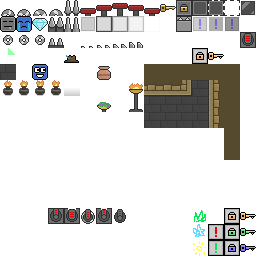
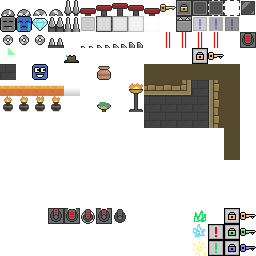
work in progress

Changed region(s): [[0.0, 0.3125, 0.25, 0.4375], [0.625, 0.125, 0.875, 0.1875]]

diff --git a/src/rt_lights/compute_shader.rs b/src/rt_lights/compute_shader.rs
@@ -3,14 +3,21 @@ use bevy::{prelude::*, render::{render_resource::Buffer, Extract}};
 use bevy_app_compute::prelude::*;
 use bytemuck::{Pod, Zeroable};
 
-use crate::rt_lights::{components::{StaticLightOccluder, LightOccluder, PointLight}, occluders::OccluderMap};
+use crate::rt_lights::{components::{AreaLight, LightOccluder, PointLight, StaticLightOccluder}, occluders::OccluderMap};
 
 const MAX_LIGHTS: u32 = 30;
 const MAX_OCCLUDERS: u32 = 100*100;
 const OCCLUDER_FRAME_BUDGET: u32 = 4;
 const RESOLUTION: u32 = 1600;   // mostly unused at the moment
 
+#[derive(TypePath)]
+struct RTLAreaRaytraceShader;
 
+impl ComputeShader for RTLAreaRaytraceShader {
+    fn shader() -> ShaderRef {
+        "shaders/rtl/rtl_area_raytrace.wgsl".into()
+    }
+}
 
 #[derive(TypePath)]
 struct RTLRaytraceShader;
@@ -92,6 +99,32 @@ impl RTPointLight {
 
 #[repr(C)]
 #[derive(Default, Clone, Copy, ShaderType, Pod, Zeroable)]
+pub(crate) struct RTAreaLight {
+    pub pos: Vec2,
+    pub packed_rgb: u32,
+    pub intensity: f32,
+    pub rect: Vec4
+}
+
+impl RTAreaLight {
+    pub fn new(pos: Vec2, colour: Color, intensity: f32, rect: Rect) -> Self {
+        let [r, g, b] = colour.to_linear().to_u8_array_no_alpha();
+        let mut packed_rgb: u32 = 0;
+        packed_rgb |= (r as u32) << 24;
+        packed_rgb |= (g as u32) << 16;
+        packed_rgb |= (b as u32) << 8;
+        
+        return Self {
+            packed_rgb,
+            pos,
+            intensity,
+            rect: Vec4::new(rect.min.x, rect.min.y, rect.max.x, rect.max.y)
+        };
+    }
+}
+
+#[repr(C)]
+#[derive(Default, Clone, Copy, ShaderType, Pod, Zeroable)]
 pub(crate) struct Occluder {
     pub pos: Vec2,
     pub shape_id: u32,
@@ -130,7 +163,7 @@ impl ComputeWorker for RTLComputeWorker {
 
         //let occluder_map = world.get_resource::<OccluderMap>().expect("could not find occluder map res when building RTLComputeWorker");
 
-        let rays_per_light = 320;
+        let rays_per_light = 64;
         let ray_workgroup_size = 64;
         let ray_workgroup_count = (rays_per_light + ray_workgroup_size - 1) / ray_workgroup_size;
         
@@ -155,6 +188,8 @@ impl ComputeWorker for RTLComputeWorker {
             .add_storage("green_lightmap", &[0u32; 1600*1600])
             .add_storage("blue_lightmap", &[0u32; 1600*1600])
 
+            .add_storage("area_lights", &[RTAreaLight::default(); MAX_LIGHTS as usize])
+            .add_uniform("area_light_count", &0)
 
             .add_pass::<RTLResetShader>([100, 100, 1], &["red_lightmap"])
             .add_pass::<RTLResetShader>([100, 100, 1], &["green_lightmap"])
@@ -162,6 +197,9 @@ impl ComputeWorker for RTLComputeWorker {
             .add_pass::<RTLOccluderResetShader>([100, 100 / OCCLUDER_FRAME_BUDGET, 1], &["occluder_mask", "current_occluder_frame", "total_occluder_frames", "buffer_size", "is_static_occluder_reset"])
             .add_pass::<RTLOccludeFillShader>([100, 100 / OCCLUDER_FRAME_BUDGET, 1], &["occluder_count", "occluders", "occluder_mask", "current_occluder_frame", "total_occluder_frames"])
             .add_pass::<RTLRaytraceShader>([ray_workgroup_count, MAX_LIGHTS, 1], &["light_count", "lights", "occluder_mask", "red_lightmap", "green_lightmap", "blue_lightmap"])
+
+            //.add_pass::<RTLAreaRaytraceShader>([100, 1, 1], &["area_light_count", "area_lights", "occluder_mask", "red_lightmap", "green_lightmap", "blue_lightmap"])
+
             .add_pass::<RTLLightPacker>([100, 100, 1], &["lighting_output", "red_lightmap", "green_lightmap", "blue_lightmap"])
             .add_pass::<RTLBlurShader>([100, 100, 1], &["lighting_output", "intermediate_blur", "buffer_size", "noy"])
             .add_pass::<RTLBlurShader>([100, 100, 1], &["intermediate_blur", "lighting_output", "buffer_size", "y"])
@@ -274,6 +312,26 @@ pub(crate) fn update_rt_lights(
 
     worker.write_slice("lights", &lights);
     worker.write("light_count", &current_count);
+}
+
+
+pub(crate) fn update_rt_area_lights(
+    query: Query<(&Transform, &AreaLight)>,
+    mut worker: ResMut<AppComputeWorker<RTLComputeWorker>>,
+) {
+    let mut current_count = 0u32;
+    let mut area_lights: Vec<RTAreaLight> = vec![];
+
+    for (transform, light) in query {
+        area_lights.push(RTAreaLight::new(transform.translation.truncate(), light.colour, light.intensity, light.rect));
+        current_count += 1;
+        if current_count >= MAX_LIGHTS {
+            break;
+        }
+    }
+
+    worker.write_slice("area_lights", &area_lights);
+    worker.write("area_light_count", &current_count);
 }
 
 

diff --git a/src/stage/stage_objects/laser.rs b/src/stage/stage_objects/laser.rs
@@ -3,7 +3,7 @@ use std::f32;
 use bevy::{math::VectorSpace, prelude::*};
 use avian2d::prelude::*;
 
-use crate::{common::{animated_sprite::SpriteAnimator, physics::layers::GamePhysicsLayer, rails::RailRider}, ground::Ground, obstacles::InstantKiller, rt_lights::components::LightOccluder, stage::{stage_builder::{stage_asset, stage_creator::{get_object_tilemap_rect_from_index, ObjectAtlasIndices, StageCreator, TILE_SIZE, TILE_SIZE_HALF}}, stage_objects::{tiles::PhysicalTileBundle, StageObject}}};
+use crate::{common::{animated_sprite::SpriteAnimator, physics::layers::GamePhysicsLayer, rails::RailRider}, ground::Ground, obstacles::InstantKiller, rt_lights::components::{AreaLight, LightOccluder}, stage::{stage_builder::{stage_asset, stage_creator::{get_object_tilemap_rect_from_index, ObjectAtlasIndices, StageCreator, TILE_SIZE, TILE_SIZE_HALF}}, stage_objects::{tiles::PhysicalTileBundle, StageObject}}};
 
 
 #[derive(Component)]
@@ -47,6 +47,11 @@ impl LaserBuilder {
             InstantKiller,
             StageObject::Volatile,
             CollisionLayers::new(GamePhysicsLayer::StageObject, LayerMask::ALL),
+            AreaLight {
+                intensity: 6.0,
+                colour: Color::srgb_u8(255, 0, 0),
+                rect: Rect::new(16.0, 16.0, 16.0, 16.0),
+            }
         )).id();
 
         let beam_end_particle_rects = vec![
@@ -94,7 +99,7 @@ impl LaserBuilder {
 
 pub fn update_laser_beams(
     laser_query: Query<(&Transform, &Laser, &RayCaster, &RayHits), (Without<LaserBeam>, Without<LaserBeamEndParticles>)>,
-    mut beam_query: Query<&mut Transform, With<LaserBeam>>,
+    mut beam_query: Query<(&mut Transform, &mut AreaLight), With<LaserBeam>>,
     mut end_particles_query: Query<&mut Transform, (With<LaserBeamEndParticles>, Without<LaserBeam>, Without<Laser>)>
 
 ) {
@@ -108,10 +113,14 @@ pub fn update_laser_beams(
 
             let hit_point = ray_origin + (*ray.global_direction() * hit.distance);
 
-            if let Ok(mut beam_transform) = beam_query.get_mut(laser.beam) {
+            if let Ok((mut beam_transform, mut area_light)) = beam_query.get_mut(laser.beam) {
                 beam_transform.translation = (ray_origin + ((hit_point - ray_origin) / 2.0)).extend(90.0);
                 beam_transform.scale.y = hit.distance + 2.0;
                 beam_transform.rotation = laser_transform.rotation;
+
+                area_light.rect = Rect::new(0.0, 0.0, beam_transform.scale.y, 16.0);
+                area_light.rect = Rect::new(0.0, 0.0, 16.0, beam_transform.scale.y);
+
             }
 
             // particles

diff --git a/src/rt_lights/mod.rs b/src/rt_lights/mod.rs
@@ -2,7 +2,7 @@
 use bevy::{prelude::*, render::RenderApp};
 use bevy_app_compute::prelude::*;
 
-use crate::rt_lights::{compute_shader::{extract_lighting_out_buffer, init_occluder_mask, refresh_static_occluders, update_occluder_current_frame, update_rt_lights, write_occluder_buffer, RTLComputeWorker}, occluders::setup_occluder_map, post_process_shader::RTLPostProcessPlugin};
+use crate::rt_lights::{compute_shader::{extract_lighting_out_buffer, init_occluder_mask, refresh_static_occluders, update_occluder_current_frame, update_rt_area_lights, update_rt_lights, write_occluder_buffer, RTLComputeWorker}, occluders::setup_occluder_map, post_process_shader::RTLPostProcessPlugin};
 
 pub(crate) mod compute_shader;
 pub(crate) mod post_process_shader;
@@ -21,7 +21,7 @@ impl Plugin for RTLightPlugin {
         .add_plugins(RTLPostProcessPlugin)
         .add_systems(Startup, (init_occluder_mask).chain())
         .add_systems(PreUpdate, (update_occluder_current_frame, refresh_static_occluders))
-        .add_systems(Update, (write_occluder_buffer, update_rt_lights));
+        .add_systems(Update, (write_occluder_buffer, update_rt_lights, update_rt_area_lights));
 
     app.sub_app_mut(RenderApp)
        .add_systems(ExtractSchedule, extract_lighting_out_buffer);

diff --git a/src/stage/stage_objects/torch.rs b/src/stage/stage_objects/torch.rs
@@ -11,8 +11,8 @@ impl TorchFactory {
             TileBundle::new(stage_creator, torch.grid_pos, atlas_rects[0], 0.0, stage_creator.object_tilemap),
             SpriteAnimator::new(200, atlas_rects),
             PointLight {
-                intensity: 1.0,
-                colour: Color::srgb_u8(255, 176, 55),
+                intensity: 6.0,
+                colour: Color::srgb_u8(255, 0, 0),
             }
         ));
     }

diff --git a/src/camera/mod.rs b/src/camera/mod.rs
@@ -140,7 +140,6 @@ pub fn clamp_camera_to_stage(
     mut camera_query: Query<(&mut PixelPerfectTranslation, &mut Transform, &mut Projection), With<Camera>>,
     stage_data: Option<Res<CurrentStageData>>,
 ) {
-
     let Ok(window) = windows.single() else { return ; };
     let window_res = Vec2::new(window.resolution.width(), window.resolution.height());
     let Some(stage_data) = stage_data else { return; };

diff --git a/src/rt_lights/components.rs b/src/rt_lights/components.rs
@@ -8,6 +8,13 @@ pub struct PointLight {
     pub colour: Color
 }
 
+#[derive(Component, Default, Clone, Copy)]
+pub struct AreaLight {
+    pub intensity: f32,
+    pub colour: Color,
+    pub rect: Rect
+}
+
 #[derive(Component, Clone, Copy)]
 pub enum LightOccluder {
     Rect(f32, f32),
